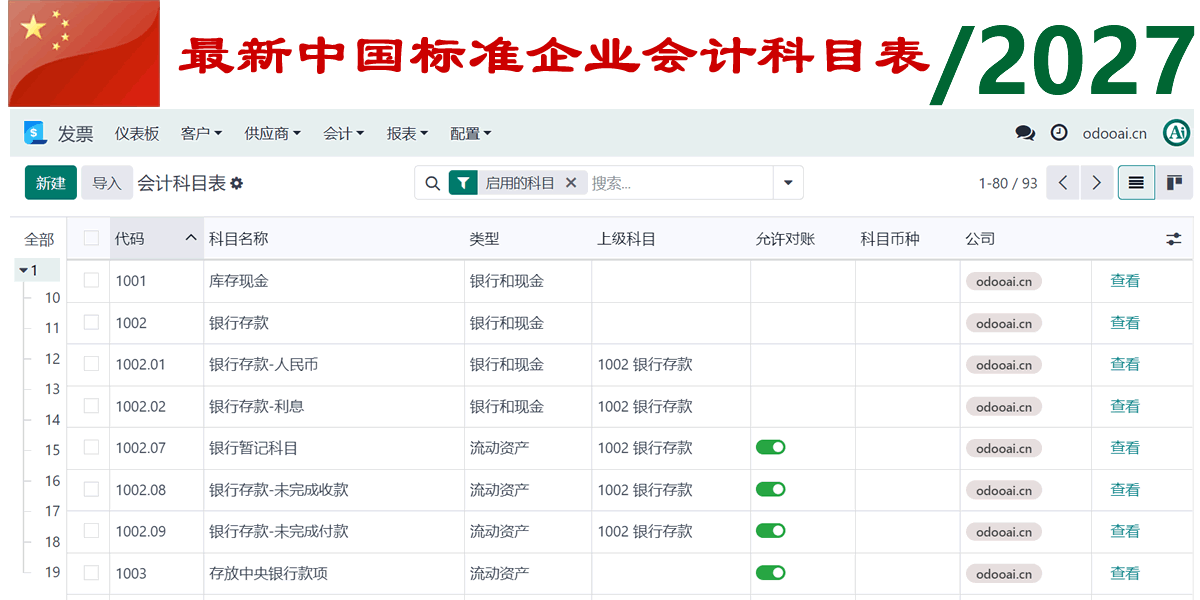
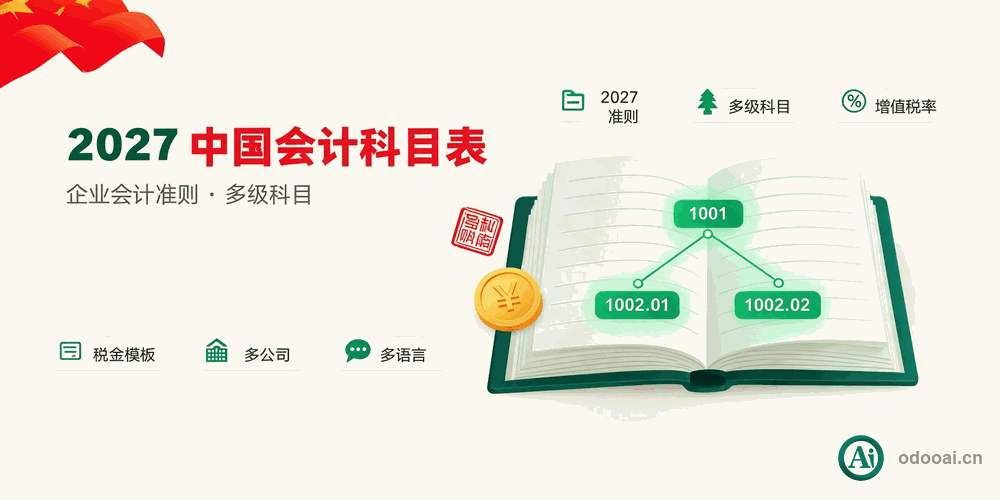
docs(plans): 新增 web_studio 对比分析与抖音云平台端功能计划
- 新增 app_ai_board 管理驾驶舱升级的 web_studio 对比与借鉴分析文档
- 梳理 Odoo 18 web_studio 七个可复用机制（操作栈、落点、属性映射等）
- 制定 app_ai_board 六项学习目标与三阶段落地路线（可逆编辑、语义拖放、扩展性）
- 新增 app_social 社媒选题爬虫监控系列子 plan 05 抖音云平台端功能文档
- 定义抖音企业号账号管理、转发@收录、授权赞与收藏三项功能范围
- 设计数据模型（account/consumer/capture）与总体架构（Webhook+cron+幂等）

diff --git a/app_odoo_customize/static/description/index.html b/app_odoo_customize/static/description/index.html
@@ -10,16 +10,15 @@
 <!-- begin title-->
 <section class="oe_container container o_cc o_cc2">
     <h2 class="text-center bg-warning text-white pt24 pb24">60+ Odoo20 Tweak,Ai Employee,Boost,Customize All in One.</h2>
-    <p class="text-center">56+ Odoo Enhance with Customize,UI,Boost,Security,Data,Development Advance Setup</p>
-    <p class="text-center">56+项优化，已升级Odoo20支持。odoo优化大全,oem去Logo,odoo提速与数据清理,开发者必备增强,聊天窗口拖拽缩放 </p>
+    <p class="text-center">65+ Odoo Enhance with Customize,UI,Boost,Security,Data,Development Advance Setup</p>
+    <p class="text-center">65+项优化，已升级Odoo20支持。odoo优化大全,oem去Logo,odoo提速与数据清理,开发者必备增强,聊天窗口拖拽缩放 </p>
 </section>
 
 
 <section class="container app">
     <div class="oe_row oe_spaced" style="max-width: 95%;">
         <div class="row">
-            <h2 class="oe_slogan">This is a Long Term Support Apps.Update: v20.0.26.04.24</h2>
-            <p class="oe_slogan">Last update: Oct 21, 2026, Add function #60+ (ChatWindow drag & resize)</p>
+            <h2 class="oe_slogan">This is a Long Term Support Apps.Update: v20.0.26.10.21</h2>
             <div class="oe_demo" style=" margin: 30px auto 0; padding: 0 15px 0 0; border:none; width: 96%;">
                 <ul class="list-group">
                     <li class="list-group-item">1. Deletes Odoo label in footer</li>
@@ -81,7 +80,7 @@
                     <li class="list-group-item">57. Full Open Source.</li>
                     <li class="list-group-item">58. Show record XML ID in debug menu with one-click copy to clipboard.</li>
                     <li class="list-group-item">59. Redirect native Odoo documentation help links (e.g. Check why) to configurable app_doc_root_url domain.</li>
-                    <li class="list-group-item">60. Show or hide the Odoo Studio icon in the top menu; keeps working on Community, and hides the install-Studio promo when Studio is not installed.</li>
+                    <li class="list-group-item">60. Show or hide the Odoo Studio icon in the top menu; works with or without web_studio installed, and needs no web_enterprise dependency.</li>
                     <li class="list-group-item">61. Add "Hide Now" button to hide the site-wide test ribbon with one click.</li>
                     <li class="list-group-item">62. Manage addons paths: list every addons path with module count, open the apps of a path, and refresh module-path mapping on module update.</li>
                     <li class="list-group-item">63. Add "Odoo Chinese Apps" module type and filter in Apps Dashboard, click to open module info instead of the Odoo store.</li>

diff --git a/app_odoo_customize/static/description/index_cn.html b/app_odoo_customize/static/description/index_cn.html
@@ -8,9 +8,9 @@
 <head><meta charset="utf-8"/></head>
 <!-- begin title-->
 <section class="oe_container container o_cc o_cc2">
-    <h2 class="text-center bg-warning text-white pt24 pb24">60+项odoo20优化提速项大全-OEM去Logo与一键数据清理-Odoo Tweak All in One</h2>
-    <p class="text-center">56+ Odoo Enhance with Customize,UI,Boost,Security,Data,Development Advance Setup</p>
-    <p class="text-center">56+项优化，已升级Odoo20支持。odoo优化大全,oem去Logo,odoo提速与数据清理,开发者必备增强</p>
+    <h2 class="text-center bg-warning text-white pt24 pb24">65+项odoo20优化提速项大全-OEM去Logo与一键数据清理-Odoo Tweak All in One</h2>
+    <p class="text-center">65+ Odoo Enhance with Customize,UI,Boost,Security,Data,Development Advance Setup</p>
+    <p class="text-center">65+项优化，已升级Odoo20支持。odoo优化大全,oem去Logo,odoo提速与数据清理,开发者必备增强</p>
 </section>
 
 <section class="container app">
@@ -84,7 +84,7 @@
                     <li class='list-group-item'>57. 代码完全开源.</li>
                     <li class='list-group-item'>58. 开发者菜单中显示当前记录的 XML ID，支持一键复制到剪贴板.</li>
                     <li class='list-group-item'>59. 将原生Odoo文档帮助链接（如 Check why）重定向至可配置的 app_doc_root_url 域名.</li>
-                    <li class='list-group-item'>60. 可显示/隐藏顶部菜单的 Odoo Studio 图标；社区版可安全使用，未安装 Studio 时不显示安装促销角标.</li>
+                    <li class='list-group-item'>60. 可显示/隐藏顶部菜单的 Odoo Studio 图标；无论是否安装 web_studio 均可使用，且不依赖 web_enterprise.</li>
                     <li class='list-group-item'>61. 测试标签增加“一键隐藏”按钮，一键隐藏全站测试标签.</li>
                     <li class='list-group-item'>62. 插件路径管理：列出所有插件路径及模块数量，可打开该路径下的应用，模块更新时自动刷新模块与路径的对应关系.</li>
                     <li class='list-group-item'>63. 应用面板增加“Odoo中文应用”模块类型与筛选，点击直接打开模块信息页，而不是跳转 Odoo 商店.</li>

diff --git a/l10n_cn_standard_latest/static/src/js/l10n_cn_conflict_warning.js b/l10n_cn_standard_latest/static/src/js/l10n_cn_conflict_warning.js
@@ -1,0 +1,29 @@
+import { registry } from "@web/core/registry";
+
+/**
+ * 后台加载后查询安装时写入的 l10n_cn 冲突警告。
+ * 有警告时弹出 sticky 通知（不会自动消失，需用户手动关闭）。
+ */
+export const l10nCnConflictWarningService = {
+    dependencies: ["notification", "orm"],
+
+    start(env, { notification, orm }) {
+        orm.silent
+            .call("l10n.cn.conflict.warning", "get_pending_warning", [])
+            .then((warning) => {
+                if (!warning) {
+                    return;
+                }
+                notification.add(warning.message, {
+                    title: warning.title,
+                    type: "warning",
+                    sticky: true,
+                });
+            })
+            .catch((error) => {
+                console.warn("l10n_cn conflict warning check failed:", error);
+            });
+    },
+};
+
+registry.category("services").add("l10n_cn_conflict_warning", l10nCnConflictWarningService);

diff --git a/app_odoo_customize/static/src/webclient/studio_badge.js b/app_odoo_customize/static/src/webclient/studio_badge.js
@@ -1,0 +1,21 @@
+/** @odoo-module **/
+
+import { NavBar } from "@web/webclient/navbar/navbar";
+import { patch } from "@web/core/utils/patch";
+import { session } from "@web/session";
+
+// 企业版/Studio 在 systray 中注册的键名：
+// PromoteStudioSystrayItem - web_enterprise 的 Odoo Studio 促销角标（未装 web_studio 时存在）
+// StudioSystrayItem        - web_studio 的 Studio 切换按钮（已装 web_studio 时存在）
+// 本模块不依赖 web_enterprise/web_studio，仅按注册键过滤，两个模块未安装时不受影响。
+const STUDIO_SYSTRAY_KEYS = ["PromoteStudioSystrayItem", "StudioSystrayItem"];
+
+patch(NavBar.prototype, {
+    get systrayItems() {
+        // 只由 app_show_studio 控制：为真则显示当前存在的 Studio 角标，否则隐藏
+        const showStudio = Boolean(session.app_show_studio);
+        return super.systrayItems.filter(
+            (item) => !STUDIO_SYSTRAY_KEYS.includes(item.key) || showStudio
+        );
+    },
+});

diff --git a/app_odoo_customize/__manifest__.py b/app_odoo_customize/__manifest__.py
@@ -22,7 +22,7 @@
 # description:
 
 {
-    'name': 'Odoo20 Tweak OEM Development Enhance.Boost,Customize,Ai Employee,UI,Security,Remove Data All in One-优化提速60+项大全',
+    'name': 'Odoo20 Tweak OEM Development Enhance.Boost,Customize,Ai Employee,UI,Security,Remove Data All in One-优化提速65+项大全',
     'version': '20.0.26.10.21',
     'author': 'odooai.cn',
     'category': 'Extra Tools',
@@ -167,7 +167,7 @@
     57. Full Open Source.
     58. Show record XML ID in debug menu with one-click copy to clipboard.
     59. Redirect native Odoo documentation help links (e.g. Check why) to configurable app_doc_root_url domain.
-    60. Show or hide the Odoo Studio icon in the top menu; keeps working on Community, and hides the install-Studio promo when Studio is not installed.
+    60. Show or hide the Odoo Studio icon in the top menu; works with or without web_studio installed, and needs no web_enterprise dependency.
     61. Add "Hide Now" button to hide the site-wide test ribbon with one click.
     62. Manage addons paths: list every addons path with module count, open the apps of a path, and refresh module-path mapping on module update.
     63. Add "Odoo Chinese Apps" module type and filter in Apps Dashboard, click to open module info instead of the Odoo store.
@@ -240,7 +240,7 @@
     57. 代码完全开源.
     58. 开发者菜单中显示当前记录的 XML ID，支持一键复制到剪贴板.
     59. 将原生Odoo文档帮助链接（如 Check why）重定向至可配置的 app_doc_root_url 域名.
-    60. 可显示/隐藏顶部菜单的 Odoo Studio 图标；社区版可安全使用，未安装 Studio 时不显示安装促销角标.
+    60. 可显示/隐藏顶部菜单的 Odoo Studio 图标；无论是否安装 web_studio 均可使用，且不依赖 web_enterprise.
     61. 测试标签增加“一键隐藏”按钮，一键隐藏全站测试标签.
     62. 插件路径管理：列出所有插件路径及模块数量，可打开该路径下的应用，模块更新时自动刷新模块与路径的对应关系.
     63. 应用面板增加“Odoo中文应用”模块类型与筛选，点击直接打开模块信息页，而不是跳转 Odoo 商店.

diff --git a/l10n_cn_standard_latest/models/l10n_cn_conflict_warning.py b/l10n_cn_standard_latest/models/l10n_cn_conflict_warning.py
@@ -1,0 +1,38 @@
+# -*- coding: utf-8 -*-
+
+from odoo import api, models, _
+
+from ..hooks import L10N_CN_CONFLICT_WARNING_PARAM
+
+
+class L10nCnConflictWarning(models.AbstractModel):
+    _name = 'l10n.cn.conflict.warning'
+    _description = 'L10n CN Module Conflict Warning'
+
+    @api.model
+    def get_pending_warning(self):
+        """
+        读取并清除安装时写入的 l10n_cn 冲突警告标记。
+        仅在标记存在且 l10n_cn 仍处于已安装状态时返回提示内容，保证只提示一次。
+        非系统管理员不读取也不清除标记，留给管理员登录时提示。
+        """
+        if not self.env.user.has_group('base.group_system'):
+            return False
+        params = self.env['ir.config_parameter'].sudo()
+        if not params.get_bool(L10N_CN_CONFLICT_WARNING_PARAM):
+            return False
+        params.set_bool(L10N_CN_CONFLICT_WARNING_PARAM, False)
+
+        l10n_cn = self.env['ir.module.module'].sudo().search(
+            [('name', '=', 'l10n_cn'), ('state', '=', 'installed')], limit=1)
+        if not l10n_cn:
+            return False
+
+        return {
+            'title': _('Module Conflict Warning'),
+            'message': _(
+                'The "l10n_cn" module is installed and may conflict with '
+                '"l10n_cn_standard_latest": invoice fields may be duplicated. '
+                'It is recommended to uninstall "l10n_cn".'
+            ),
+        }

diff --git a/app_odoo_customize/models/ir_http.py b/app_odoo_customize/models/ir_http.py
@@ -26,9 +26,8 @@ class IrHttp(models.AbstractModel):
         result['app_show_support'] = config_parameter.get_str('app_show_support')
         result['app_show_account'] = config_parameter.get_str('app_show_account')
         result['app_show_poweredby'] = config_parameter.get_str('app_show_poweredby')
-        # Studio 角标：是否显示，以及 web_studio 是否已安装（本模块不依赖企业版）
+        # Studio 角标：仅由 app_show_studio 控制是否显示（本模块不依赖企业版）
         result['app_show_studio'] = config_parameter.get_bool('app_show_studio', False)
-        result['app_studio_installed'] = self.env['ir.module.module']._get('web_studio').state == 'installed'
         # 增加多语言
         result['app_lang_list'] = self.env['res.lang'].search_read([], ['id', 'code', 'name', 'flag_image_url'])
         result['is_erp_manager'] = self.env.user.has_group('base.group_erp_manager')

diff --git a/l10n_cn_standard_latest/__manifest__.py b/l10n_cn_standard_latest/__manifest__.py
@@ -28,7 +28,7 @@
 10. Multi-Company Support.
 11. Full Version Support for Odoo 19,18,17,16,15,14,13,12, Enterprise and Community Edition.
 12. Full Open Source under LGPL-3 license.
-1. 2027 最新中国会计科目表，处理营改增后会计科目调整，更新至最新税率。
+1. 2027 最新中国会计科目表，处理营改增后会计科目调整，处理五险一金及数字资产等新规后会计科目。更新至最新税率。
 2. 将菜单设置为"财务"。
 3. 补充分类及标签信息。
 4. 更新税项信息，增加中国常用增值税率设定。
